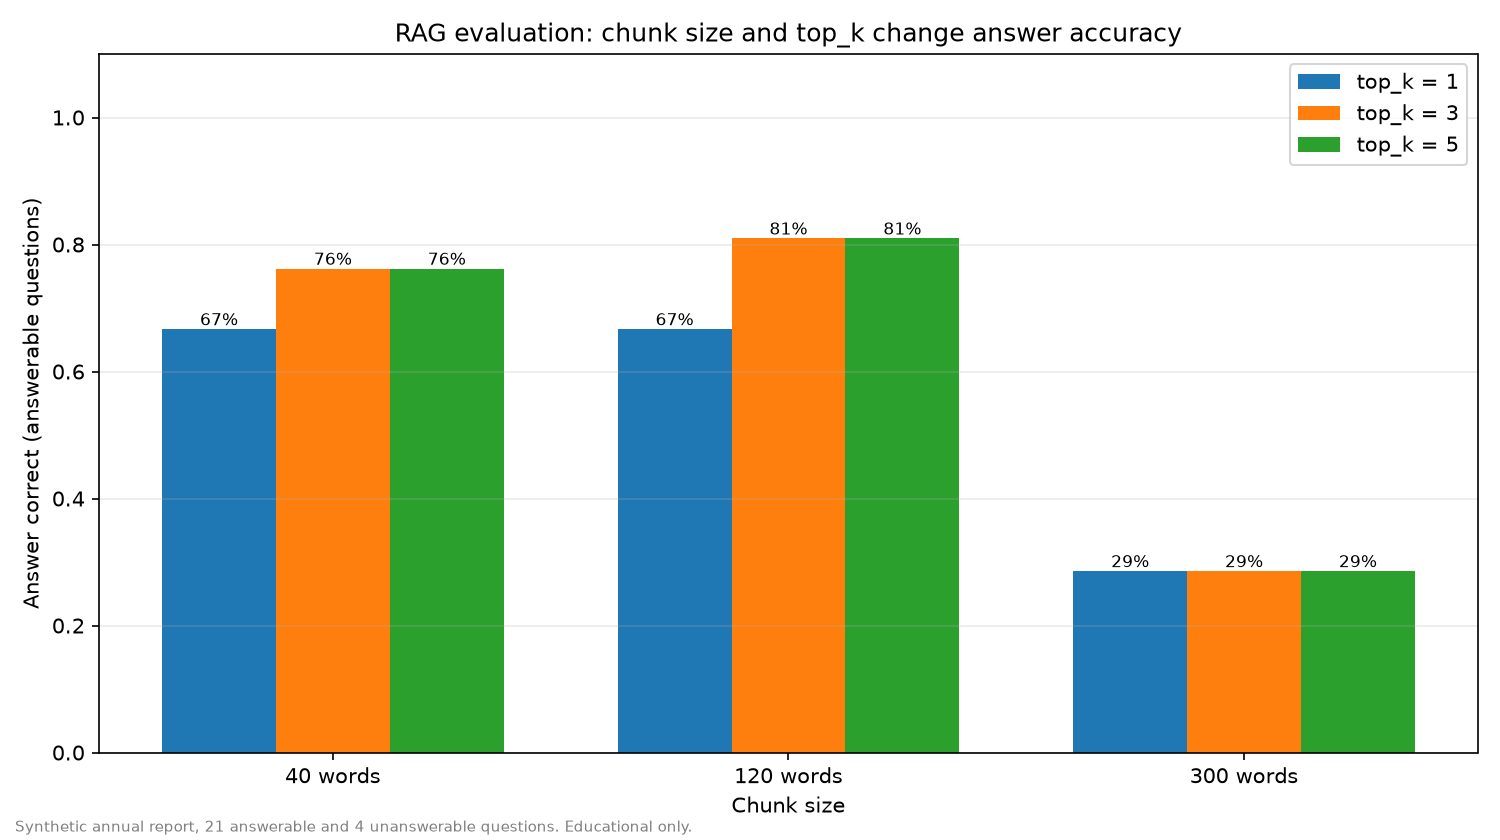
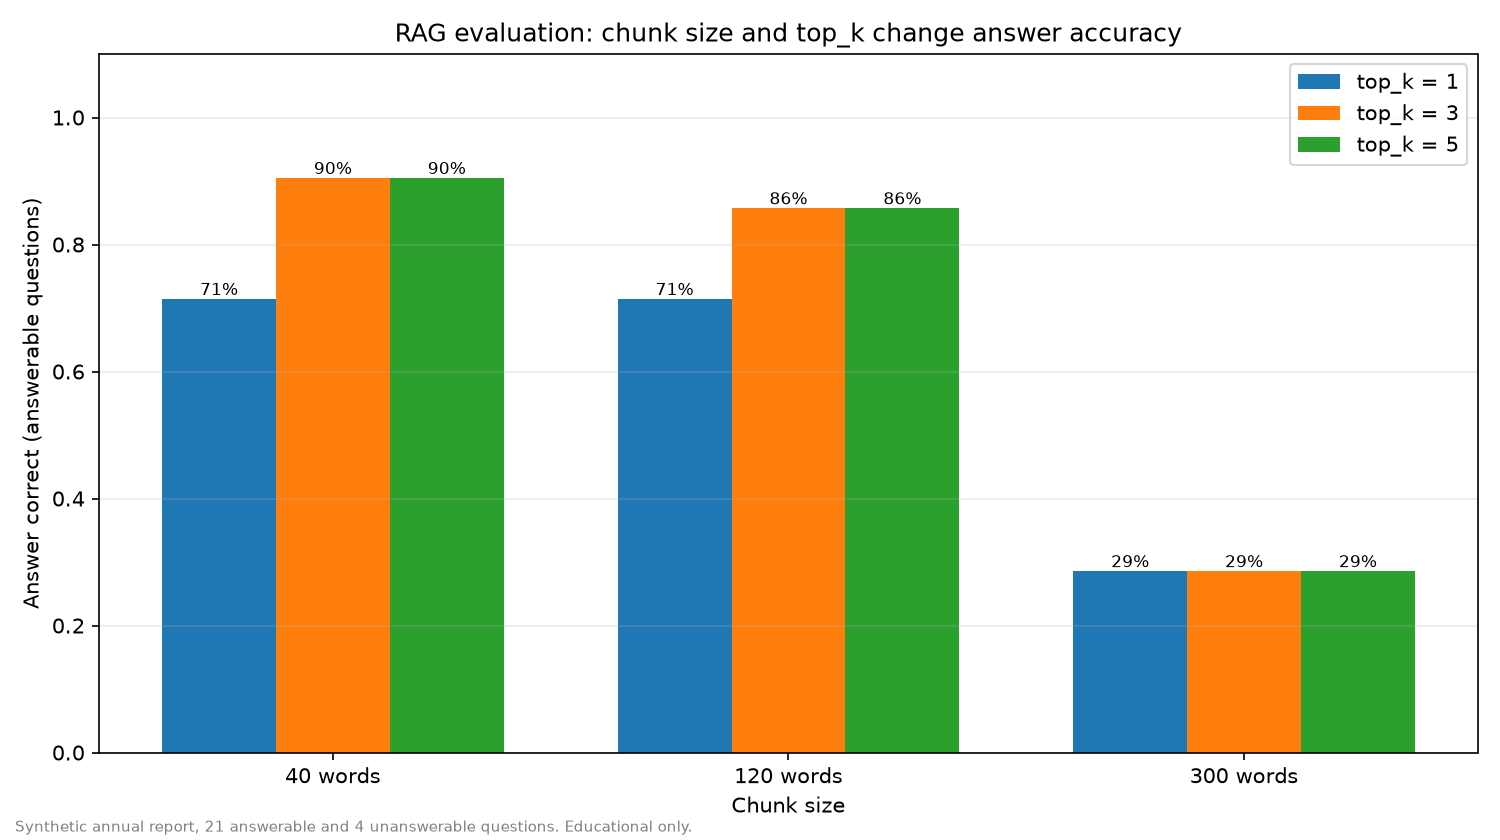
Filter heading fragments from extractive answers; refresh eval results

diff --git a/genai-finance/genai_finance/rag.py b/genai-finance/genai_finance/rag.py
@@ -85,7 +85,8 @@ def extractive_answer(question: str, hits: list[tuple[Chunk, float]], retriever:
     candidates = []  # (score, chunk_id, sentence)
     q = retriever.vectorizer.transform([question])
     for chunk, _ in hits:
-        sentences = split_sentences(chunk.text)
+        # Skip heading fragments such as "Cybersecurity risk." or "SECTION 2. FINANCIAL RESULTS".
+        sentences = [s for s in split_sentences(chunk.text) if len(s.split()) >= 5 and not s.isupper()]
         if not sentences:
             continue
         sims = (retriever.vectorizer.transform(sentences) @ q.T).toarray().ravel()
